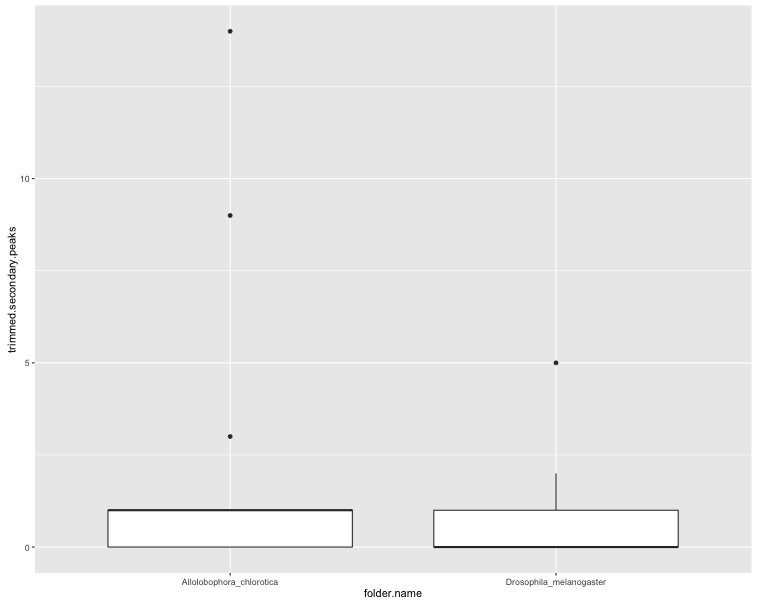
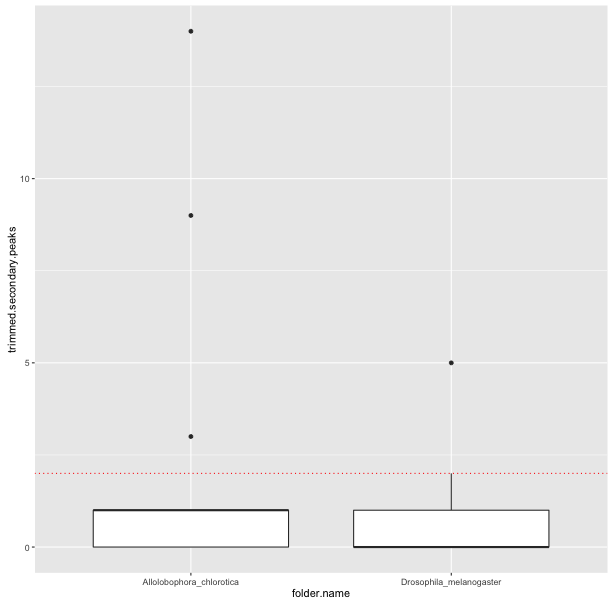
add line to plot

diff --git a/readme.md b/readme.md
@@ -247,7 +247,8 @@ ggplot(sf$summaries, aes(x = folder.name, y = trimmed.mean.quality)) + geom_boxp
 ![plot2](images/plot2.png)
 
 ```
-ggplot(sf$summaries, aes(x = folder.name, y = trimmed.secondary.peaks)) + geom_boxplot()
+# In this case, we also add a add horizontal lines at a cutoff of 2
+ggplot(sf$summaries, aes(x = folder.name, y = trimmed.secondary.peaks)) + geom_boxplot() + geom_hline(yintercept = 2, linetype = 3, colour = 'red')
 ```
 ![plot3](images/plot3.png)
 
